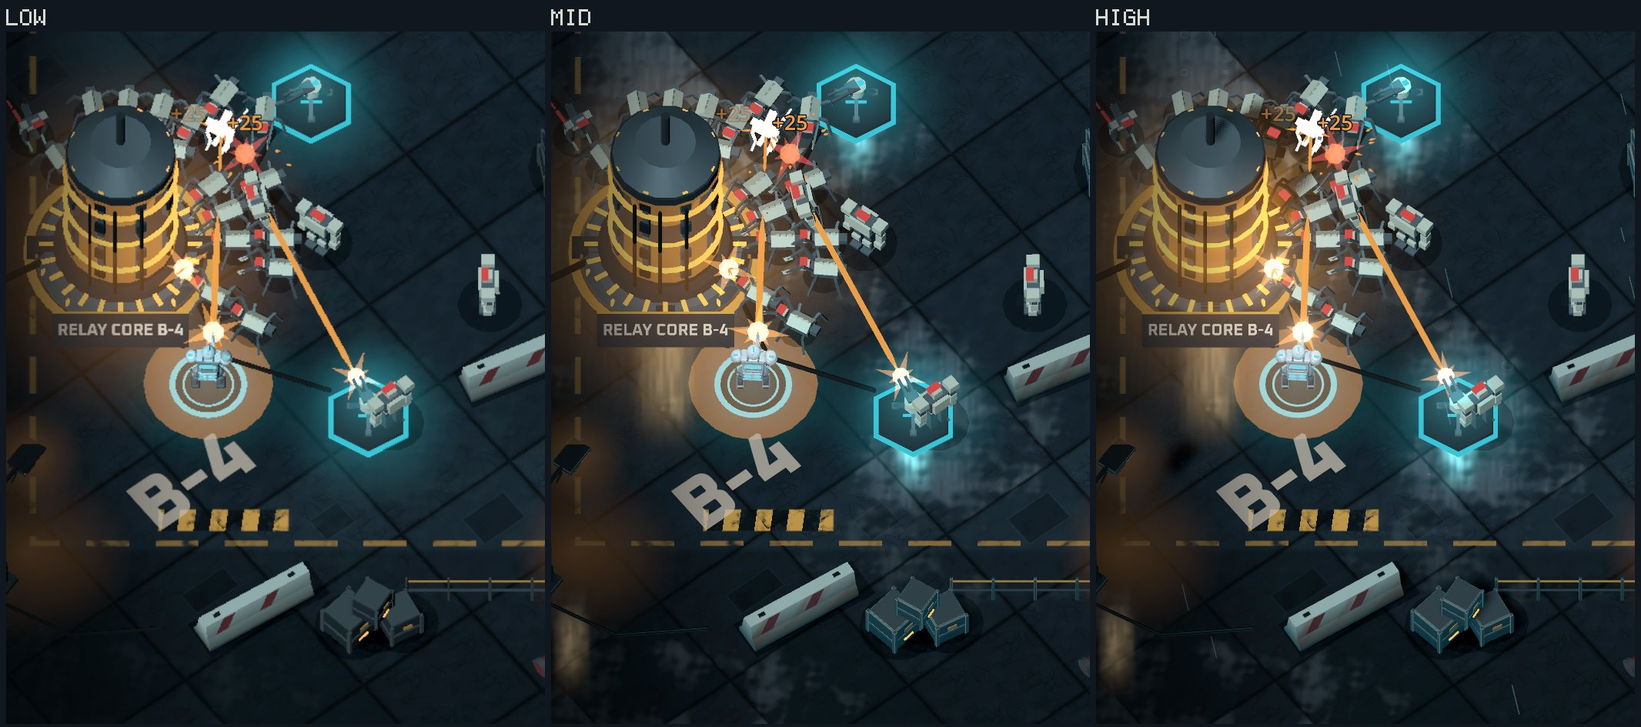
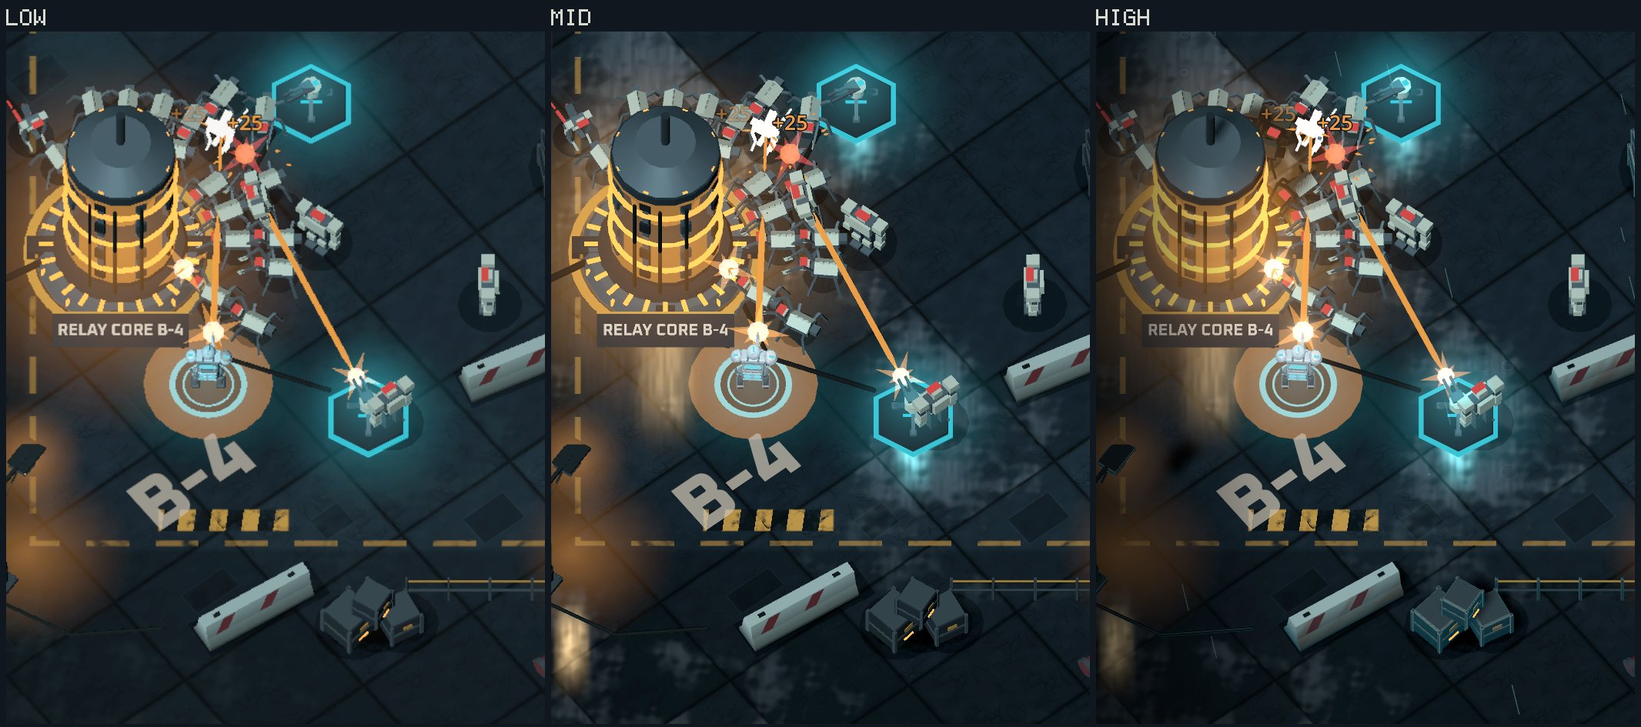
W3-E: README round 5 (environment pass, camera study, legibility, cost) and final sheets
Claude-Session: https://claude.ai/code/session_01EmsW2qfkmaJ9yDKS3P3ppj

diff --git a/docs/reports/lookdev/README.md b/docs/reports/lookdev/README.md
@@ -612,3 +612,220 @@ mean-luma contrast and pixel contrast at least CURRENT's on HIGH, MID and LOW, a
   switch at run time (`src/debug/view_sandbox.gd` shows the pair).
 - The warm-up: `ArenaView._ready` calls `ShaderWarmup.attach(self, center, extra, LookDevMat.warm_materials(_look))`, so the hard-surface materials are drawn once during the boot
   screen. If the look is chosen after `ArenaView` is built, call `LookDevMat.warm_materials(look)` and attach a `ShaderWarmup` with it.
+
+
+## Round 5: environment pass (the gritty yard)
+
+The owner approved a direction (environment toward the gritty, wet, warm-against-cold look of `topdown_approved.png`; characters stay stylised hard-surface) and then
+made that image the target ("the closer we get to this outcome, the greater your success metric"). This round is the environment of the battlefield, procedural only
+(code, three small shaders, one generated 128 px tile; no PNG asset, nothing from the concept image is used as texture or traced), inside the Mobile renderer's budget.
+Images are sheets only, in `env/` (JPG quality 0.85). The sheets with the concept image next to our frames were made for judging and are NOT committed (the concept
+is a mood reference, never shipped); the committed sheets show our own frames.
+
+### What changed
+
+The environment follows `LookDevStyle.current()`: `CURRENT` is today's yard, byte for byte (the props' meshes are hash-pinned in `env_arena_test.gd`, and a
+`--look=current` capture is pixel-identical to the baseline taken before the pass); `STYLISED` and `STYLISED_PLUS` get the pass; the shipped game boots with `STYLISED`.
+`ArenaView` builds today's yard exactly as before and keeps the styled twins next to it (`EnvDress`, built the first time a styled look is applied, then only swapped by
+`EnvStyle` gates: no node and no material is created after that, 50 look switches add nothing, tested).
+
+| Piece | What it is | Files (new unless noted) |
+|---|---|---|
+| Gates | `EnvStyle.on(effect, look, tier)`: one place decides every effect (floor, wet, props, prop_shader, reactor, spill, vignette, grade, glow, ripples, flicker); `--env=off\|only:a,b\|no:a,b` for the cost measurement | `kit/env_style.gd` |
+| Floor | One shader on the old quad: dark asphalt slabs in the decor frame, seams, a baked 128 px tile (grain, cracks, blotches, one fetch, flipped and shifted per slab), repaired patches, stains, worn hazard stripes and dashed rim kept (stencil `B-4` is the same `Label3D`), puddles, vignette in world space. LOW runs the same shader without the reflection loop (puddles are a darker tone) | `kit/env_ground.gd`, `env_ground.gdshader`, `env_tex.gd` |
+| Wet sheen | MID and HIGH: the reactor column, the lamp heads, the Warden's lights and the two pads reflect as soft streaks along the view direction (a source at height h shows `h * cot(pitch)` toward the viewer), modulated by a stretched breakup, a cool sky sheen inside puddles and a warm sheen near the core. The core pulse, the lamp flicker and the pad state drive four uniforms | same |
+| Ripples | HIGH: rain rings on the puddles (a few hash lookups in the same shader) | same |
+| Props | Styled twins of `PropKit` and `DecorKit` with the same placement and footprint: jersey barriers with the real sloped profile and red hazard stripes, crates with lids, posts, straps and a lit handle, drums with chime rings and bungs, containers with corrugated walls (trapezoid ribs, valleys darkened, rust at the foot, per-rib dirt), door bars and handles, corner castings, roof ribs, lit windows, hazard-banded gantry legs, flanged pipes, lamp posts with a lit lens, a railing and cable runs along the bottom edge. Vertex colour is the albedo (paint, rust, edge wear baked); HIGH adds a prop shader (vertical grime and rust streaks, wet foot, cool rim) | `arena/env_props.gd`, `env_decor.gd`, `kit/env_shapes.gd`, `env_mat.gd`, `env_prop.gdshader` |
+| Reactor | A second mesh on the core (the body is untouched): lit ring bands on the cage, 24 base lights, lit slits, plated greebles, cable bundles, a crown of lamps | `arena/env_reactor.gd` |
+| Light spill | Additive camera-facing halos on the reactor, the lamp heads and the occupied pads (shared materials, 3 draws), stronger lamp and reactor pools, HDR lamp heads; HIGH: a dark screen-edge vignette (`CanvasLayer` below the HUD) | `arena/env_light.gd`, `env_dress.gd` |
+| Grade | MID and HIGH: contrast 1.06, saturation 0.94, exposure 0.92 on the `Environment`, linear tonemap (see the legibility section for why not filmic) | `env_dress.gd` |
+| Bloom | HIGH only (`EnvStyle.GLOW`): the existing three-level bloom (threshold 1.0) on the HDR lamp heads, windows and reactor rings; `STYLISED_PLUS` keeps its own MID and HIGH bloom | `env_dress.gd` (`apply_glow`) |
+| Hooks | `ArenaView` (set_look, set_quality, advance, warm-up via `EnvDress.warm_up`), `CoreRig` (`gain`, `pool_gain`), `ShaderWarmup` gets the new materials through its existing `extra` and `lit` lists (no kit file was edited) | `arena/arena_view.gd`, `core_rig.gd` |
+| Sandbox | `--env=...`, `--env-tune=...`, `--cam-pitch`, `--cam-persp`, `--cam-report`; `look_dev_compare.gd` gained `--shrink`, `--fit`, `--cols`; `measure_env.ps1` | `src/debug/*`, `docs/reports/lookdev/measure_env.ps1` |
+
+Tier gates (`EnvStyle.MIN_TIER`, asserted in `env_style_test.gd`): CURRENT nothing. LOW: floor (no reflections), props (baked colours), reactor, light spill. MID adds the wet floor, the flicker on the
+reflections and the grade. HIGH adds the prop shader, the screen vignette, bloom and the rain rings. Two gates were set by the measurement below: the vignette (a full-screen blended pass,
++0.4 to +0.8 ms at LOW and MID) and the prop shader (+0.3 to +1.1 ms at MID) moved up to HIGH. Not built: haze (not tried; the vignette and the dark floor carry the far end of the yard).
+
+### Camera study (owner: "balance of showing details of the battlefield, as well as a strong view into the tons of enemies")
+
+The camera is data-driven (`data/arena.json` `camera.pitch_down_deg`, orthographic KEEP_HEIGHT rig, `CameraFit` clamps the pitch to 55..65). The sandbox can show
+any pitch, orthographic or perspective, fitted into the SAME HUD band (`--cam-pitch=<deg> [--cam-persp=<fov>] --cam-report`, `src/debug/env_cam_study.gd`; it overrides the
+sandbox process's own copy of the arena, never `data/`). Same simulation frame (hold50, frame 240, 1080x2400, top band 264 px, bottom band 552 px = 1584 px of band), old yard,
+numbers logged by the capture itself. "Clear" = an enemy whose body (a 1 m capsule) is at least 80 percent uncovered by nearer enemies; "tell apart" = at least 50 percent.
+
+| Camera | Arena height on screen (of 1584 px) | Far / near edge width | Enemy size | Tell apart / clear (of 50) | Mean visible | Warden / core px |
+|---|---|---|---|---|---|---|
+| orthographic 60 (now) | 1201 (76%) | 991 / 991 | 40 px | 48 / 43 | 0.92 | 59 / 198 |
+| orthographic 50 | 1063 (67%) | 991 / 991 | 40 px | 48 / 28 | 0.86 | 59 / 198 |
+| orthographic 42 | 928 (59%) | 991 / 991 | 40 px | 45 / 17 | 0.76 | 59 / 198 |
+| perspective 55, fov 30 | 1019 (64%) | 839 / 988 | 37 px | 48 / 31 | 0.88 | 58 / 188 |
+| **perspective 50, fov 30** | 939 (59%) | 823 / 987 | 36 px | 47 / 25 | 0.83 | 58 / 186 |
+| perspective 42, fov 30 | 801 (51%) | 802 / 987 | 36 px | 43 / 16 | 0.74 | 57 / 184 |
+
+(`env/env_9_camera_study_hold50.jpg`.) What it does, read with the owner's words:
+- **Width is the binding constraint at every pitch** (the 20 m wide arena fills the 1080 px at its near edge). A lower pitch does not buy more screen for the swarm: the 28 m deep
+  arena is foreshortened, so the playfield shrinks vertically (76% of the band at 60, 59% at 50 and 42 orthographic, 51% at 42 perspective) and the enemies overlap more. The HUD bands
+  never cover arena content (the arena ends 270 px above the bottom band and 290 px below the top band even at perspective 55); the freed band shows more yard around it.
+- **Details of the battlefield:** prop sides, container doors, the reactor's flank and the characters' sides appear as soon as the pitch drops; perspective adds the depth cue
+  (converging verticals, bigger near props, smaller far enemies), which is what the concept image has and an orthographic camera never gives.
+- **A strong view into the enemies:** the swarm stays readable down to about 50 degrees (47 of 50 enemies can still be told apart, mean visibility 0.83 against 0.92 now) and then falls
+  (43 and 0.74 at 42). Far enemies in perspective are 10 percent smaller than orthographic (36 px against 40). The far lane (the top spawn edge) is 17 percent narrower on screen and
+  the far side of the arena stays inside the frame in every candidate (the fit includes the spawn ends). In the captures, tall props (containers, the gantry, lamps) stay outside the lanes and do not hide
+  enemies or the Warden at 50; the reactor's open cage lets the enemies behind it show through; the two lanes' spawn edges stay visible at the top and right.
+- **Boss scenario** (captured at every candidate, same numbers in `build/shots/cam/report.txt`): the Siege Hulk and its red ring read at every candidate.
+
+### Recommendation: perspective, 50 degrees down, 30 degrees field of view
+
+Prepared as a SEPARATE commit on `task/W3-E` ("camera: perspective 50 ..."), so it can be taken or left: `data/arena.json` `camera.pitch_down_deg` 60 to 50, a new `CameraPersp`
+(pure math, bisection fit into the same HUD band, `CameraFit.FOV_DEG` 30), `CameraFit` (pitch band 40..65, `solve_with_fov`, perspective `project` and `unproject_ground`), `CameraFitResult.fov_deg`,
+`CameraRig` (switches the `Camera3D` to perspective), the sun's shadow distance in `ArenaView` (a perspective camera stands roughly 90 to 100 m from the yard), and the camera tests updated deliberately.
+Why 50 and not 55 or 42: it is the lowest pitch at which 47 of 50 enemies can still be told apart (55: 48, 42: 43); 55 is the safe alternative and is one number in the data
+(`pitch_down_deg`, the commit leaves the pitch free between 40 and 65). Orthographic 50 (data change and the clamp only, no perspective code) keeps every enemy the same size and scores
+0.86 visibility, a fine fallback if the owner does not want a perspective camera. Verified for the change: nothing in `src/game` or `src/ui` maps a screen point to the world (the
+slice has no tap or drag on the field: the controls are HUD buttons and the Warden aims by itself), the only users of `world_to_screen` are tests, billboards (muzzle stars, bursts) take the camera basis,
+the health bars and the boss chevrons take the arena's own pitch and yaw (the same data value that the commit moves together with the camera), and the HUD bands are the same `GameCameraFit` call.
+
+### Legibility (measured, `look_dev_legibility.gd`, the round 3 setup: 1080x2400, hold28, frame 240, `--msaa=0` on both halves)
+
+| Tier | Yard | Warden px | mean luma | ring luma | contrast | pixel contrast | p10 / p90 | clipped | white |
+|---|---|---|---|---|---|---|---|---|---|
+| HIGH | old yard (`--env=off`, the v4 numbers) | 2318 | 0.691 | 0.518 | 0.173 | 0.208 | 0.44 / 0.88 | 2.9% | 0.4% |
+| HIGH | **new yard** | 2405 | 0.688 | 0.509 | **0.179** | **0.213** | 0.43 / 0.88 | **3.2%** | 0.6% |
+| MID | **new yard** | 2318 | 0.676 | 0.478 | 0.198 | 0.225 | 0.43 / 0.86 | 2.1% | 0.3% |
+| LOW | **new yard** | 2471 | 0.606 | 0.493 | 0.113 | 0.188 | 0.35 / 0.84 | 1.9% | 0.0% |
+
+The gate (Warden HIGH pixel contrast at least 0.19, clipped at most 5 percent) is met: 0.213 and 3.2 percent (v4: 0.208 and 2.9). The old-yard row reproduces round 4's HIGH numbers
+exactly, so the setup is the same. The MID and LOW rows were captured one revision earlier (before the container paint and the HDR gains were tuned; neither touches the Warden's surroundings).
+The way to the gate is worth knowing: the first version of the grade used a filmic tonemap and lifted the pad's amber glow while rolling the Warden's highlights off, and the pixel contrast fell
+to 0.155; a linear tonemap with a small contrast (1.06) and an exposure of 0.92 restored it (contrast 1.1 without the exposure clipped 12 percent of the Warden's pixels). The amber disc under the
+Warden is the Overdrive aura of `VfxAuras` (always on in the sandbox scenarios), an additive quad over the floor: the floor under it was darkened too, but the aura dominates the ring.
+The mean luma of the floor itself fell: 0.150 against 0.173 in a floor band of the arena and 0.192 against 0.215 over the whole arena rectangle (frame 240, hold28, no Warden), against the
+Warden's 0.69: "darker than today, clearly below the characters" holds.
+
+### Cost (this desktop Intel Iris Plus iGPU, NOT a phone; hold50, vsync off, `Engine.max_fps = 0`, 1080x1920 SubViewport, 2 interleaved passes per cell, 4 five-second windows each)
+
+Method: `docs/reports/lookdev/measure_env.ps1` (the round 1 setup: `look_dev_sandbox`, scenario `hold50`, 1080x1920 SubViewport in a 540x960 window, `--disable-vsync`, `Engine.max_fps = 0`, four
+5-second windows after a discarded one, every run under `C:\dev\tower-two-wt\measure.lock`, interleaved cells). **The machine was shared the whole time** (another agent measuring, an Android export,
+test runs): the lock covers only the agents that take it, and the same configuration varied by up to 2.7 ms between two runs (MID, old yard: 12.30, 13.44, 14.98), so a delta below about 0.7 ms is not
+resolved. `old yard` is `--look=stylised --env=off` (the new Warden on today's yard, which includes the tier's MSAA: 2x at MID, 4x at HIGH), so the numbers are the cost of the environment pass alone.
+Raw rows: `build/env_measure.csv` (matrix 1 `env`, matrix 2 `env2`, rounds 3 and 4 `env3` and `env4`; not committed, they are in the task report).
+
+**All effects together, against the budget** (mean of the runs, the spread in brackets):
+
+| Tier | old yard | new yard | delta | budget | draws | primitives |
+|---|---|---|---|---|---|---|
+| LOW | 6.51 ms (7 runs, 5.76 to 7.69) | 6.56 ms (7 runs, 5.83 to 7.53) | **+0.05** | +0.2 | 99 to 104 | 28.7k to 53.8k |
+| MID | 13.57 ms (3 runs, 12.30 to 14.98) | 12.95 ms (3 runs, 11.89 to 13.50) | **-0.62** (noise; the new floor is cheaper than the old one) | +0.6 | 99 to 104 | 28.8k to 53.9k |
+| HIGH | 16.78 ms (4 runs, 15.80 to 17.79) | 17.57 ms (4 runs, 15.92 to 19.06) | **+0.79** | +1.0 | 105 to 111 | 40.7k to 88.8k |
+
+All three tiers fit the budgets as measured, and the draw calls stay far inside ARCH 13 (111 against 150 in this scene without the HUD). The headroom is real only because the new floor shader is
+cheaper than the old one (below); the extras are not free. A MID run before the prop shader moved to HIGH read +0.65 to +1.65 ms (3 and 2 runs) and a LOW run with the vignette and the grade
+read +0.36, which is why those gates moved.
+
+**Per effect** (the effect alone on top of the old yard, `--env=only:...`; single runs unless stated, so read each number as plus or minus 0.7 ms; draws and primitives are exact):
+
+| Effect | Tier | ms against the old yard | Extra draws, primitives | How much closer to the concept |
+|---|---|---|---|---|
+| New floor (asphalt, seams, cracks, patches, painted stripes; no reflections) | LOW / HIGH | +0.01 / -1.34 | 0, 0 | Large: flat teal becomes worn dark asphalt (the old shader had about seven noise calls per pixel, the new one reads one tile) |
+| Wet floor (puddles, reflection streaks) | MID / HIGH | -0.45 / -0.94 (so about +0.4 over the new dry floor) | 0, 0 | Medium: the sheen, the warm streaks under the lamps and the core |
+| Rain rings | HIGH | -0.46 (about +0.5 over the wet floor) | 0, 0 | Small |
+| Props, baked colours (new geometry) | LOW | -0.09 (3 runs) and +0.23 (1 run) | 0, +23k | Large: corrugated containers, barriers with stripes, rimmed drums, rails |
+| Prop shader (grime streaks, wet foot, rim) | MID / HIGH | +0.28 and +1.14 (3 runs) / +1.13 (the HIGH figure includes the sun shadow pass over the extra 46k triangles) | 0, +23k / +46k | Medium (small at 1x) |
+| Light spill: halos, stronger pools, HDR lamps | MID / HIGH | +0.29 (3 runs) and +0.93 (2 runs) / -0.52 and -0.19 (noise) | +3, 0 | Large: warm light against cold |
+| Reactor detail (rings, lights, greebles) with the spill | HIGH | -0.31 | +5, +2k | Medium |
+| Grade (linear tonemap, contrast, saturation) | LOW / MID / HIGH | +0.39 / +0.34 / -0.23 | 0, 0 | Small (gated to MID and up) |
+| Screen vignette (a `CanvasLayer` pass) | LOW / MID / HIGH | +0.36 / +0.80 / +0.05 | +1, 0 | Small to medium (gated to HIGH) |
+| Bloom (on the spill's HDR values) | HIGH | not resolved: -1.77 and -1.22 against the old yard in two cells, round 1 measured +0.4 to +0.5 for the same bloom on this GPU | +0, 0 | Medium |
+
+Reading: what the pass costs is geometry (the decor is 28.7k triangles, the props 4.4k; about 48k more primitives on screen, and double that on HIGH because the sun's shadow pass draws them again), the prop
+shader and the halos; what it saves is the old floor shader. The bloom cannot be priced separately on this machine today; take round 1's +0.4 to +0.5 ms and the warning there (a tile-based phone GPU
+may pay far more) as the figure until a phone says otherwise. One-time build (not per frame), desktop, headless, shared machine, three runs: floor tile 40 to 55 ms, props 32 to 50 ms, decor 200 to 280 ms,
+reactor 14 to 18 ms, and the whole styled `ArenaView.setup` 425 to 490 ms against about 60 ms for the old yard (`src/debug/env_build_timing.gd`). On a phone that is a second or more of GDScript at boot: it is the first
+thing to trim (halve the decor's pipe flanges and lamp posts, build the decor on a thread, or bake the meshes to a resource) before this ships.
+
+### Gap list against `topdown_approved.png` (honest)
+
+What we match (in kind, not in fidelity): a dark, wet, worn floor with slab seams, cracks, patches and stains; painted hazard stripes and the `B-4` stencil; warm lamp and reactor light
+against the cold cyan of the pads and the Warden; red, grey and teal corrugated containers with rust, door bars and lit windows; white jersey barriers with red stripes; barrels and crates;
+lamp posts with a lit lens and a halo; a vignette; rain; a reactor with lit rings. What we do not match, biggest first:
+1. **The camera.** The concept is a perspective view from about 40 to 50 degrees; ours is orthographic at 60 (the recommendation above closes most of it).
+2. **Reflections.** The concept's floor is a mirror of the fire, the lamps and every muzzle flash. Ours are soft streaks of four kinds of source on MID and HIGH; nothing reflects the muzzle
+   flashes, the tracers, the explosions or the enemies (that needs per-frame light sources on the floor: a pooled ground light under each flash is the next step, see below), and nothing is a sharp mirror.
+3. **Scale and richness of the reactor.** The concept's core is a huge multi-storey cage of ducts and panels; ours is the same 6 m column with lit rings and greebles.
+4. **Prop richness.** Our props are bevelled boxes and corrugation; no cables, ducts, hatches, stencils, hoses or debris on the floor, no shell casings, no tilted containers.
+5. **Contrast and glow.** The concept has blown-out highlights and deep blacks; ours is kept under the legibility floor (a linear tonemap with a gentle contrast; bloom on HIGH only).
+6. **Atmosphere.** No haze, smoke, steam or volumetric light; the sparks and fire of the concept are VFX work (not the environment's).
+7. **Characters and enemies.** Outside this task (W3-D is rolling the hard-surface look out to them).
+
+### Honest assessment
+
+- **Is the yard clearly better than CURRENT?** Yes at the real camera: the floor reads as wet worn asphalt instead of flat teal, the barriers read as concrete with hazard stripes, the containers as
+  corrugated steel with rust and lit windows, the lamps and the core throw warm light against the cold pads, and the frame has a mood (dark edges, warm pools). Still a stylised procedural yard, not the
+  concept: see the gap list.
+- **It is darker.** The floor's mean is clearly below the characters' (the legibility table), which is the point of the pass; on a phone in daylight the overall darkness should be checked.
+- **LOW** keeps the new floor (no reflections), the new props (baked colours), the halos and the vignette; it looks like MID without the wet sheen and the prop streaks.
+- **Bloom** costs what the cost table says on this iGPU and, as in round 1, must be re-measured on a phone before it ships (HIGH only here).
+
+### Known defects
+
+- The wet sheen's puddle edges show the texel grid of the 128 px tile where the breakup is stretched (a little blocky at 3x); the reflection streaks are soft, not mirror-like.
+- Rain rings (HIGH) are small and sparse; the rain itself is the old streak mesh.
+- The lamp halos read a little brown on the dark floor; the reactor's lit rings read yellow rather than amber on HIGH (an HDR amber clips toward yellow).
+- The screen vignette is a full-screen blended pass (`CanvasLayer`), so it is HIGH only; MID and LOW keep only the floor shader's world-space darkening, which leaves props and actors undarkened.
+- The first styled `ArenaView.setup` builds the floor tile, the props and the decor in GDScript (about 0.4 s on the desktop, see the cost section); it belongs in the boot warm-up, which it is (the warm-up draws every new material).
+- The vignette's canvas shader (HIGH) compiles on its first draw: a `CanvasItem` pipeline cannot be drawn by `ShaderWarmup`, and I did not check where the compile lands in the boot sequence.
+- Phone and emulator checks: NOT RUN (the emulator cannot present Vulkan frames; the owner resolves that before Wave 4).
+- Under the perspective camera (if taken) the world text labels and the health bars were only looked at in the sandbox captures (they read), not measured on a phone.
+
+### What is next (cheapest first)
+
+1. A pooled ground light under each muzzle flash and explosion (one additive quad per flash in `VfxLayer`): the single biggest step toward the concept's lit floor.
+2. A sharper reflection layer for the reactor and the lamps (a vertically flipped, blurred copy of the lit meshes) if a phone shows headroom.
+3. Debris, cables and stencils on the floor (decals in the same floor shader or a few merged quads), shell casings from the Warden.
+4. A larger, more ornate reactor (a second tier of ducts and a roof), authored rather than procedural.
+5. Haze and steam near the far edge (not tried).
+6. Roll the same grit onto the actors (W3-D) so the characters and the yard share one value structure.
+
+### Tests and commands
+
+- `tools\check.ps1` on the environment commits (before the camera commit): `CHECK OK`, `TEST SUMMARY: tests=1172 failures=0 errors=0 skipped=0 exit=0`. With the camera commit on top: CHECK_CAMERA.
+- New suites in `tests/unit/view/`: `env_style_test.gd` (the tier gates, the overrides), `env_tex_test.gd` (the tile is deterministic, tileable, has its channels; checksum pinned),
+  `env_arena_test.gd` (CURRENT meshes pinned by hash, the originals come back after a styled round trip, 50 look switches add no node, no material, no object, every prop keeps its footprint
+  from the data, the decor keeps DecorKit's layout and stays outside the playable rectangle and clear of the spawn edges, the boot warm-up covers the new materials, the lamp and core gains),
+  `env_shapes_test.gd` (the corrugated wall, the extruded barrier, vertex colours in range, deterministic containers inside their triangle budget). Changed deliberately:
+  `look_dev_view_test.gd` `test_bloom_is_a_plus_touch...` (the styled yard adds its own bloom gate at HIGH).
+- Commands: `powershell -NoProfile -ExecutionPolicy Bypass -File tools\capture.ps1 -Scene "res://src/debug/look_dev_sandbox.tscn --look=stylised --scenario=hold28 --quality=2" -Out C:/.../x.png -Size 1080x2400 -Frames 240`
+  (add `--env=off` for today's yard with the new Warden, `--look=current` for CURRENT, `--cam-pitch=50 --cam-persp=30 --cam-report` for the camera study); the legibility pair `--msaa=0` and `--hide-warden`,
+  scored with `Godot --headless --path . --script res://src/debug/look_dev_legibility.gd -- --without=<png> --with=LABEL|<png>`; sheets with `look_dev_compare.gd` (new `--shrink`, `--fit`, `--cols`);
+  cost with `docs/reports/lookdev/measure_env.ps1`; the one-time build with `src/debug/env_build_timing.gd`.
+- CURRENT unchanged, three ways: the mesh hashes in `env_arena_test.gd`; the state round trip in the same suite; and an A/B capture of the baseline commit against this branch with `--look=current` at LOW
+  (306 of 2,592,000 pixels differ, by at most 2 of 255, the same as two captures of one build differ among themselves). At HIGH the rain and the lamp flicker use the real frame time, so two captures
+  of the same build differ by about 3 percent of the pixels (up to 99 of 255 on the rain streaks): a HIGH pixel comparison is not meaningful.
+
+### Images (`env/`, sheets only, JPG quality 0.85, every one opened and looked at)
+
+All captures went through `tools/capture.ps1` (`CAPTURE OK`, `renderer=mobile/vulkan`, Intel Iris Plus), the real game camera at 1080x2400, HIGH tier with the shipped anti-aliasing
+unless stated, the same simulation frame (240 = 4 s) for both columns. CURRENT is `--look=current` (old yard, old Warden); NEW is `--look=stylised` (new yard, hard-surface Warden).
+
+| File | What it shows |
+|---|---|
+| `env_1_hold10_1x.jpg`, `env_2_hold28_1x.jpg`, `env_3_hold50_1x.jpg`, `env_4_boss_1x.jpg` | The real camera at 1x pixels, a 700x900 crop around the core, the Warden and the pad, CURRENT then NEW, scenarios hold10, hold28, hold50 and boss |
+| `env_5_floor_3x.jpg` | A 230x230 crop of the floor and the drum cluster, enlarged 3x with nearest neighbour (what the 1x pixels contain) |
+| `env_6_container_3x.jpg` | A 250x210 crop of the top-left container, 3x: corrugated wall, lit windows, rust at the foot |
+| `env_7_tiers_1x.jpg` | NEW at LOW, MID and HIGH (1x crop): LOW has the new floor and props without reflections, MID adds the wet sheen and the prop streaks, HIGH adds bloom and rain rings |
+| `env_8_camera_new_yard.jpg` | The new yard at the game camera (pitch 60, orthographic) and at the recommended camera (pitch 50, perspective, fov 30), hold50 |
+| `env_9_camera_study_hold50.jpg` | The camera study: orthographic 60, 50, 42 and perspective 55, 50, 42 (old yard, hold50, same HUD band) |
+
+What I saw: **1x (env_2, env_3):** CURRENT is a flat teal floor with big soft blobs and plain boxes; NEW is a darker floor with slab seams and cracks, damp patches with a cool sheen, warm
+light spilling from the reactor and the lamps against the cyan pads, the reactor's lit rings, white barriers with red stripes, crates with lit handles, a railing. The Warden still reads (cyan ring on a
+darker pad). **3x (env_5, env_6):** the floor tile (grain, hairline cracks, stains), rimmed barrels with bungs, corrugated container walls with dirty ribs and amber windows are visible at 3x and
+mostly below pixel size at 1x. **Tiers (env_7):** LOW is clean and dark without the sheen, MID and HIGH differ in the bloom around the pads and the reactor, the rain, the rings on the puddles and the 4x anti-aliasing.
+**Camera (env_8, env_9):** see the camera study.
+
+### Needs owner
+
+- **Take or leave the camera commit** (above). It changes GDD 4.1 and four lines of ARCH; the pitch is one number in `data/arena.json`.
+- **Bloom on STYLISED at HIGH** (`EnvStyle.GLOW`) is new policy: ARCH 8 says "no glow" with one exception (STYLISED_PLUS at MID and HIGH). The exact line to change is below. Its cost is in the table.
+- **Phone measurement** of the floor shader (a full-screen ALU cost on a tile-based GPU), the vignette pass and bloom (Adreno, Mali, PowerVR), thermals and a 50-enemy run, before this ships. NOT RUN here.
+- ARCH and WORK_PLAN are not mine: the lines are in the task report.
